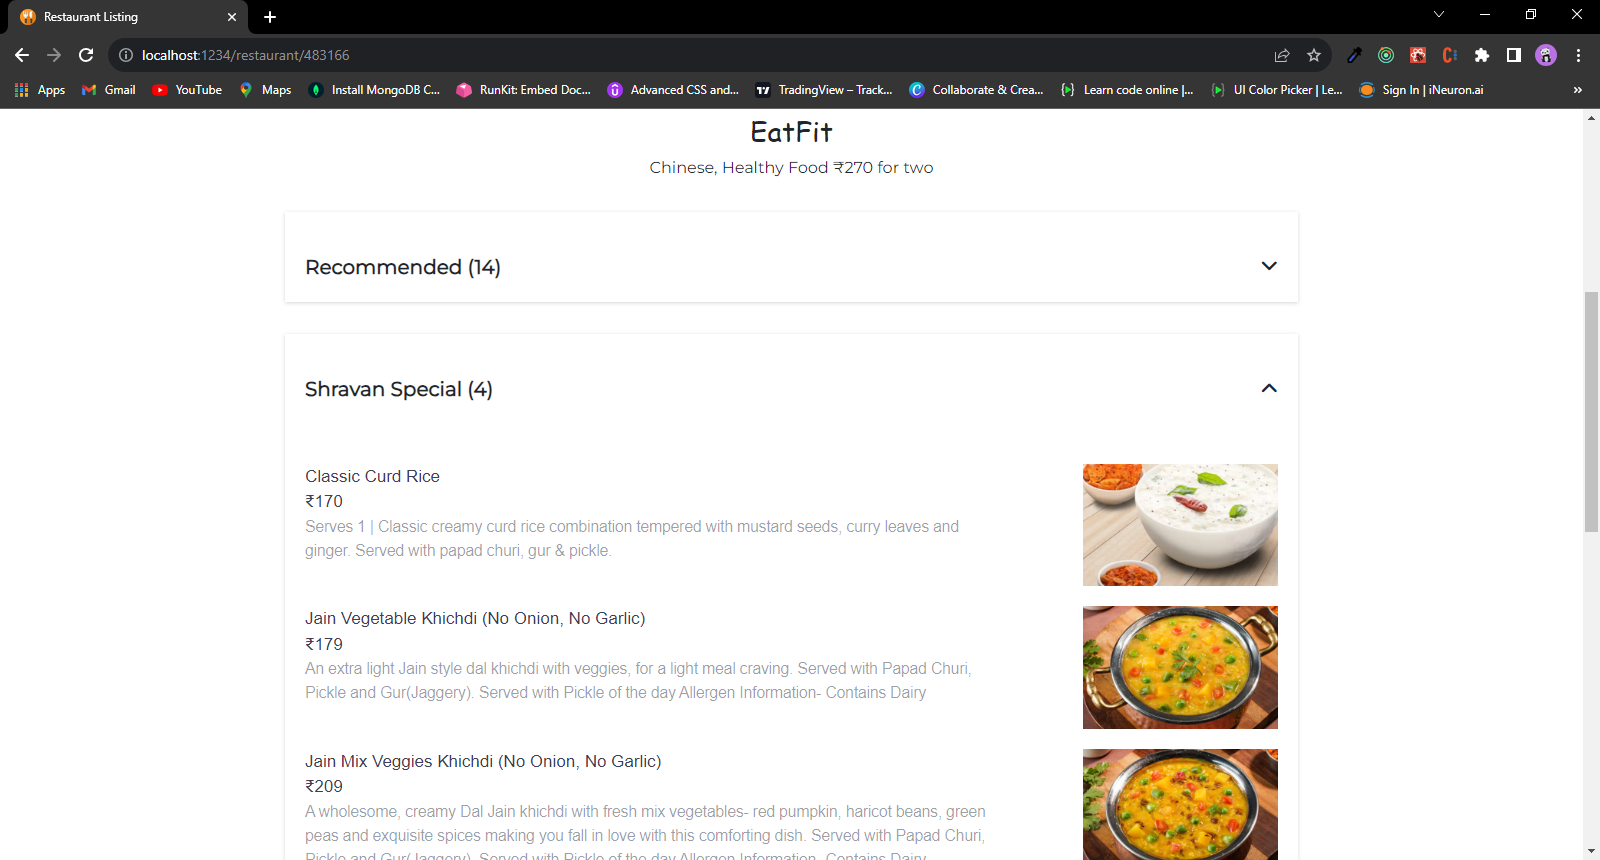
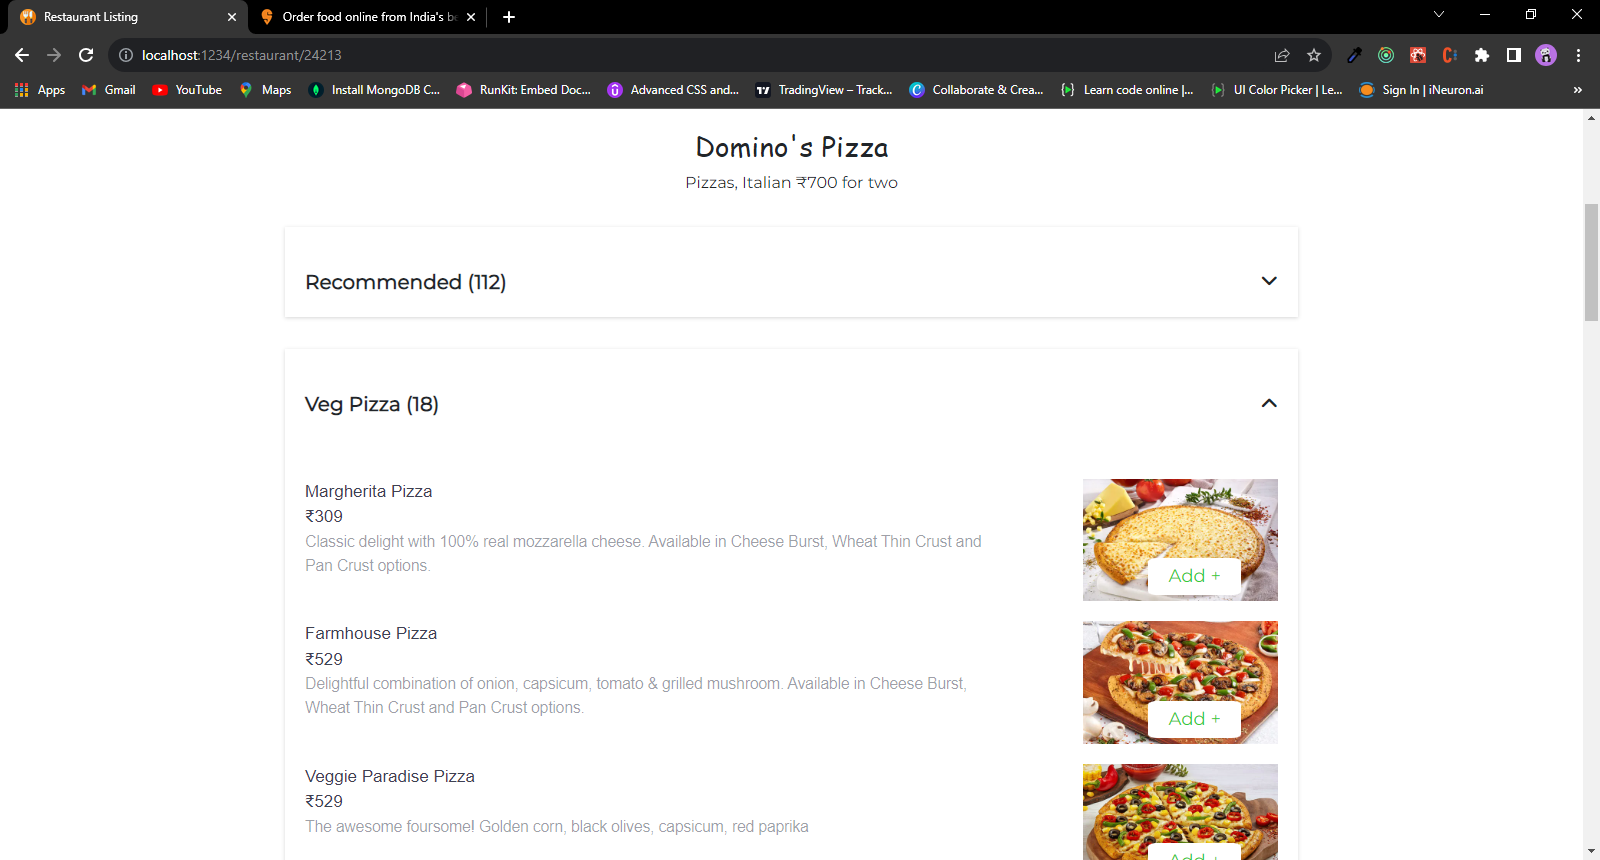
add button for cart and sc add

diff --git a/src/components/RestaurantMenu.css b/src/components/RestaurantMenu.css
@@ -48,6 +48,7 @@
 }
 .item-image-container{
     width: 20%;
+    position: relative;
 }
 .item-image-container img{
     width: 100%;
@@ -63,4 +64,23 @@
    color: rgba(40,44,63,.45);
    letter-spacing : -.3px;
    font-family:  Arial, Helvetica, sans-serif
+}
+.item-add-btn{
+    position: absolute;
+    left: 65px;
+    bottom: 6px;
+    border-radius: 10%;
+    background-color: white;
+    border: none;
+    outline: none;
+    padding: 5px 20px;
+    font-size: 18px;
+    color: limegreen
+}
+.item-add-btn:hover{
+    background-color: rgb(255, 255, 255, .9);
+    scale: 1.1;
+}
+.item-add-btn:active{
+    transform: translateY(2px);
 }

diff --git a/src/components/ItemList.js b/src/components/ItemList.js
@@ -11,6 +11,7 @@ const ItemList = ({ items }) => {
               src={cloudinary + item?.card?.info?.imageId}
               alt=""
             />
+            <button className="item-add-btn"> Add +</button>
           </div>
 
           <div className="item-details-container">

diff --git a/readme.md b/readme.md
@@ -19,3 +19,4 @@
 ![Screenshot](assests/screenshot.PNG)
 ![Sccreenshot-2](assests/visuals2ofreslisting.PNG)
 ![Sccreenshot-2](assests/screenshot3.PNG)
+![Sccreenshot-2](assests/screenshot4.PNG)
